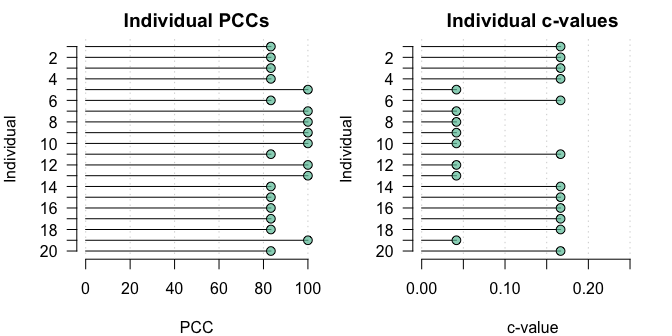
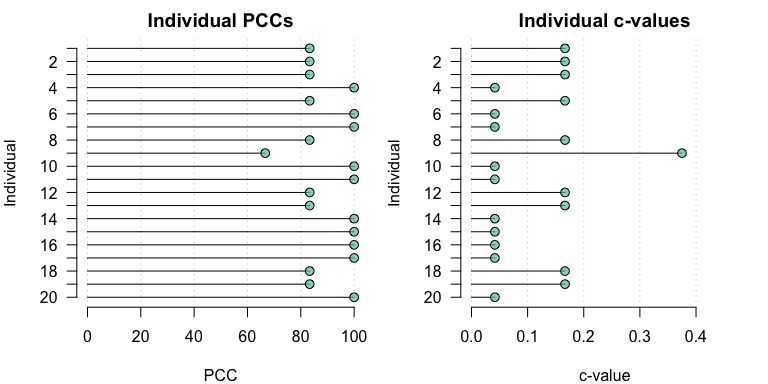
Updated readme

diff --git a/README.md b/README.md
@@ -115,26 +115,26 @@ dat <- data.frame(t1 = rnorm(20, mean = 12, sd = 2),
                   
 round(dat, 2)
 #>       t1    t2    t3    t4
-#> 1  12.72 13.80 17.88 17.93
-#> 2  10.97 12.34 17.52 18.38
-#> 3  11.53 14.59 19.70 20.06
-#> 4   9.90 18.83 20.70 16.07
-#> 5  10.27 16.91 21.77 19.31
-#> 6  12.71 18.50 20.17 15.97
-#> 7  10.69 16.31 17.39 16.50
-#> 8  10.45 14.40 21.61 16.07
-#> 9  13.37 14.29 22.10 18.65
-#> 10 10.25 14.52 19.95 18.49
-#> 11  8.59 13.50 21.84 13.20
-#> 12 11.51 15.47 20.50 16.23
-#> 13 13.20 14.69 26.71 19.17
-#> 14 14.24 16.18 21.24 15.95
-#> 15 13.33 16.46 20.02 16.43
-#> 16 16.60 13.72 19.51 16.69
-#> 17 10.95 14.77 18.51 13.50
-#> 18  9.90 15.62 22.11 15.11
-#> 19  9.10 13.00 21.44 15.63
-#> 20 12.32 13.53 18.62 21.06
+#> 1  11.54 15.05 22.12 13.97
+#> 2  14.61 14.54 21.87 15.77
+#> 3  11.65 18.11 20.79 16.74
+#> 4  10.70 15.28 21.19 16.47
+#> 5  10.78 17.14 23.81 16.86
+#> 6   9.19 14.09 17.10 14.16
+#> 7   9.88 15.02 20.02 15.11
+#> 8  13.72 13.34 20.47 17.42
+#> 9  15.99 15.15 20.17 15.82
+#> 10 13.59 13.73 17.32 16.84
+#> 11 12.30 14.82 22.07 17.09
+#> 12 12.60 16.29 19.50 19.58
+#> 13 11.93 15.27 18.59 13.73
+#> 14 12.83 17.27 19.76 18.11
+#> 15  6.19 12.83 20.72 16.97
+#> 16 12.01 13.19 19.61 16.43
+#> 17 11.55 13.76 24.66 15.25
+#> 18 13.89 17.24 23.04 17.14
+#> 19 13.70 14.85 20.33 14.18
+#> 20  7.19 17.87 20.21 19.64
 ```
 
 An ordinal pattern analysis model to consider how the hypothesis `h`
@@ -151,31 +151,31 @@ summary(opamod)
 #> Ordinal Pattern Analysis of 4 observations for 20 individuals in 1 group 
 #> 
 #> Between subjects results:
-#>        PCC cval
-#> pooled  90 0.12
+#>          PCC cval
+#> pooled 90.83 0.11
 #> 
 #> Within subjects results:
 #>       PCC cval
 #> 1   83.33 0.17
 #> 2   83.33 0.17
 #> 3   83.33 0.17
-#> 4   83.33 0.17
-#> 5  100.00 0.04
-#> 6   83.33 0.17
+#> 4  100.00 0.04
+#> 5   83.33 0.17
+#> 6  100.00 0.04
 #> 7  100.00 0.04
-#> 8  100.00 0.04
-#> 9  100.00 0.04
+#> 8   83.33 0.17
+#> 9   66.67 0.38
 #> 10 100.00 0.04
-#> 11  83.33 0.17
-#> 12 100.00 0.04
-#> 13 100.00 0.04
-#> 14  83.33 0.17
-#> 15  83.33 0.17
-#> 16  83.33 0.17
-#> 17  83.33 0.17
+#> 11 100.00 0.04
+#> 12  83.33 0.17
+#> 13  83.33 0.17
+#> 14 100.00 0.04
+#> 15 100.00 0.04
+#> 16 100.00 0.04
+#> 17 100.00 0.04
 #> 18  83.33 0.17
-#> 19 100.00 0.04
-#> 20  83.33 0.17
+#> 19  83.33 0.17
+#> 20 100.00 0.04
 #> 
 #> PCCs were calculated for pairwise ordinal relationships using a difference threshold of 0.
 #> Chance-values were calculated using the exact method.
@@ -201,15 +201,15 @@ condition_comparisons <- compare_conditions(opamod)
 condition_comparisons$pccs
 #>     1   2  3 4
 #> 1   -   -  - -
-#> 2  95   -  - -
+#> 2  85   -  - -
 #> 3 100 100  - -
-#> 4 100  65 80 -
+#> 4  95  70 95 -
 condition_comparisons$cvals
-#>       1     2   3 4
-#> 1     -     -   - -
-#> 2 0.525     -   - -
-#> 3   0.5   0.5   - -
-#> 4   0.5 0.675 0.6 -
+#>       1    2     3 4
+#> 1     -    -     - -
+#> 2 0.575    -     - -
+#> 3   0.5  0.5     - -
+#> 4 0.525 0.65 0.525 -
 ```
 
 ### Multiple groups
@@ -233,33 +233,33 @@ summary(opamod2)
 #> 
 #> Between subjects results:
 #>     PCC cval
-#> A 93.33 0.09
-#> B 86.67 0.14
-#> C 90.00 0.12
-#> D 90.00 0.12
+#> A 83.33 0.18
+#> B 93.33 0.09
+#> C 93.33 0.09
+#> D 93.33 0.09
 #> 
 #> Within subjects results:
 #>   Individual    PCC cval
 #> A          1  83.33 0.17
-#> A          5 100.00 0.04
-#> A          9 100.00 0.04
-#> A         13 100.00 0.04
-#> A         17  83.33 0.17
+#> A          5  83.33 0.17
+#> A          9  66.67 0.38
+#> A         13  83.33 0.17
+#> A         17 100.00 0.04
 #> B          2  83.33 0.17
-#> B          6  83.33 0.17
+#> B          6 100.00 0.04
 #> B         10 100.00 0.04
-#> B         14  83.33 0.17
+#> B         14 100.00 0.04
 #> B         18  83.33 0.17
 #> C          3  83.33 0.17
 #> C          7 100.00 0.04
-#> C         11  83.33 0.17
-#> C         15  83.33 0.17
-#> C         19 100.00 0.04
-#> D          4  83.33 0.17
-#> D          8 100.00 0.04
-#> D         12 100.00 0.04
-#> D         16  83.33 0.17
-#> D         20  83.33 0.17
+#> C         11 100.00 0.04
+#> C         15 100.00 0.04
+#> C         19  83.33 0.17
+#> D          4 100.00 0.04
+#> D          8  83.33 0.17
+#> D         12  83.33 0.17
+#> D         16 100.00 0.04
+#> D         20 100.00 0.04
 #> 
 #> PCCs were calculated for pairwise ordinal relationships using a difference threshold of 0.
 #> Chance-values were calculated using the exact method.
